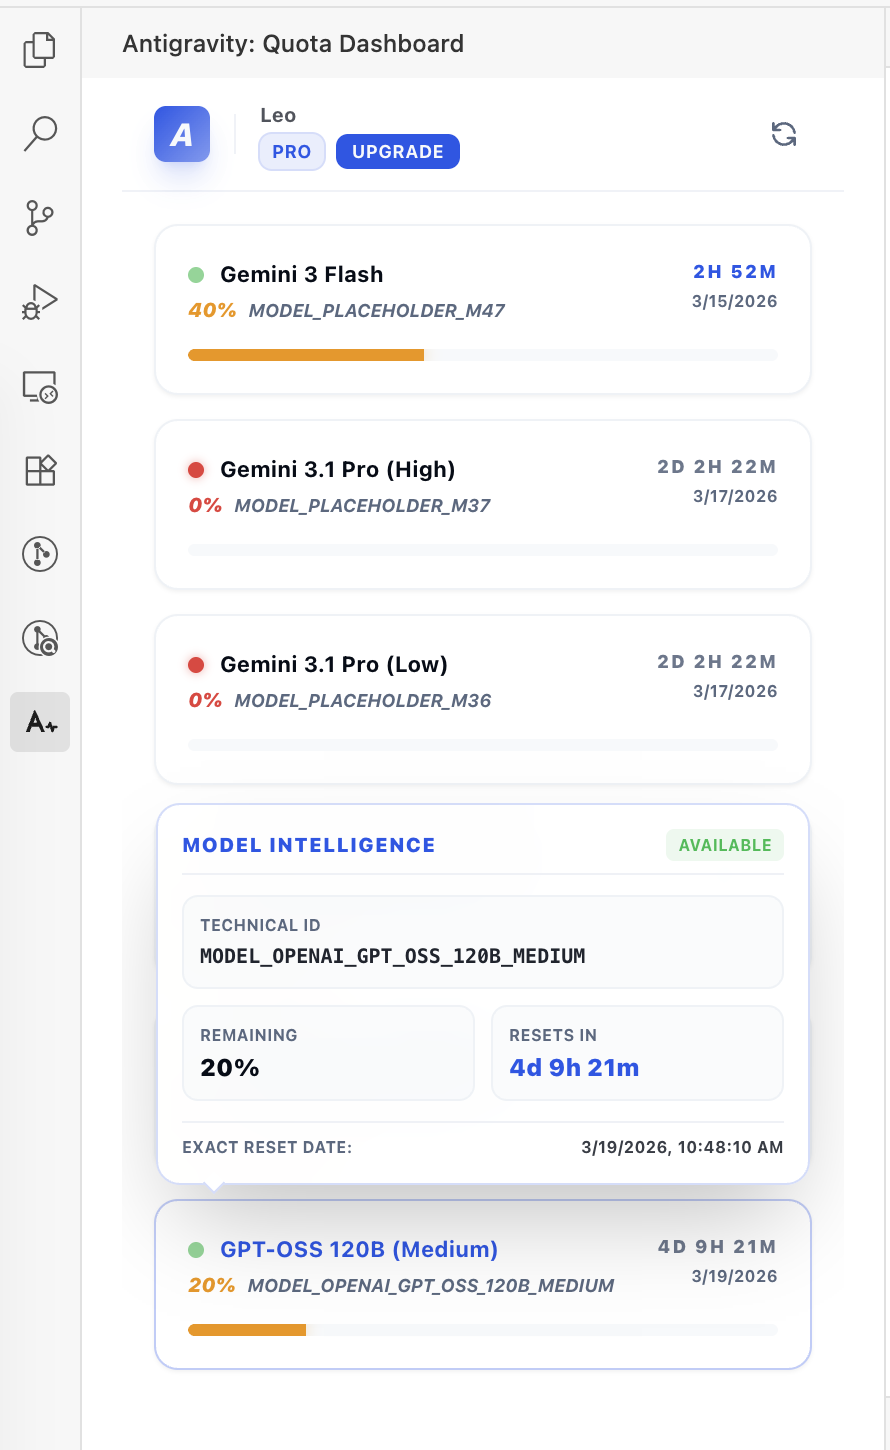
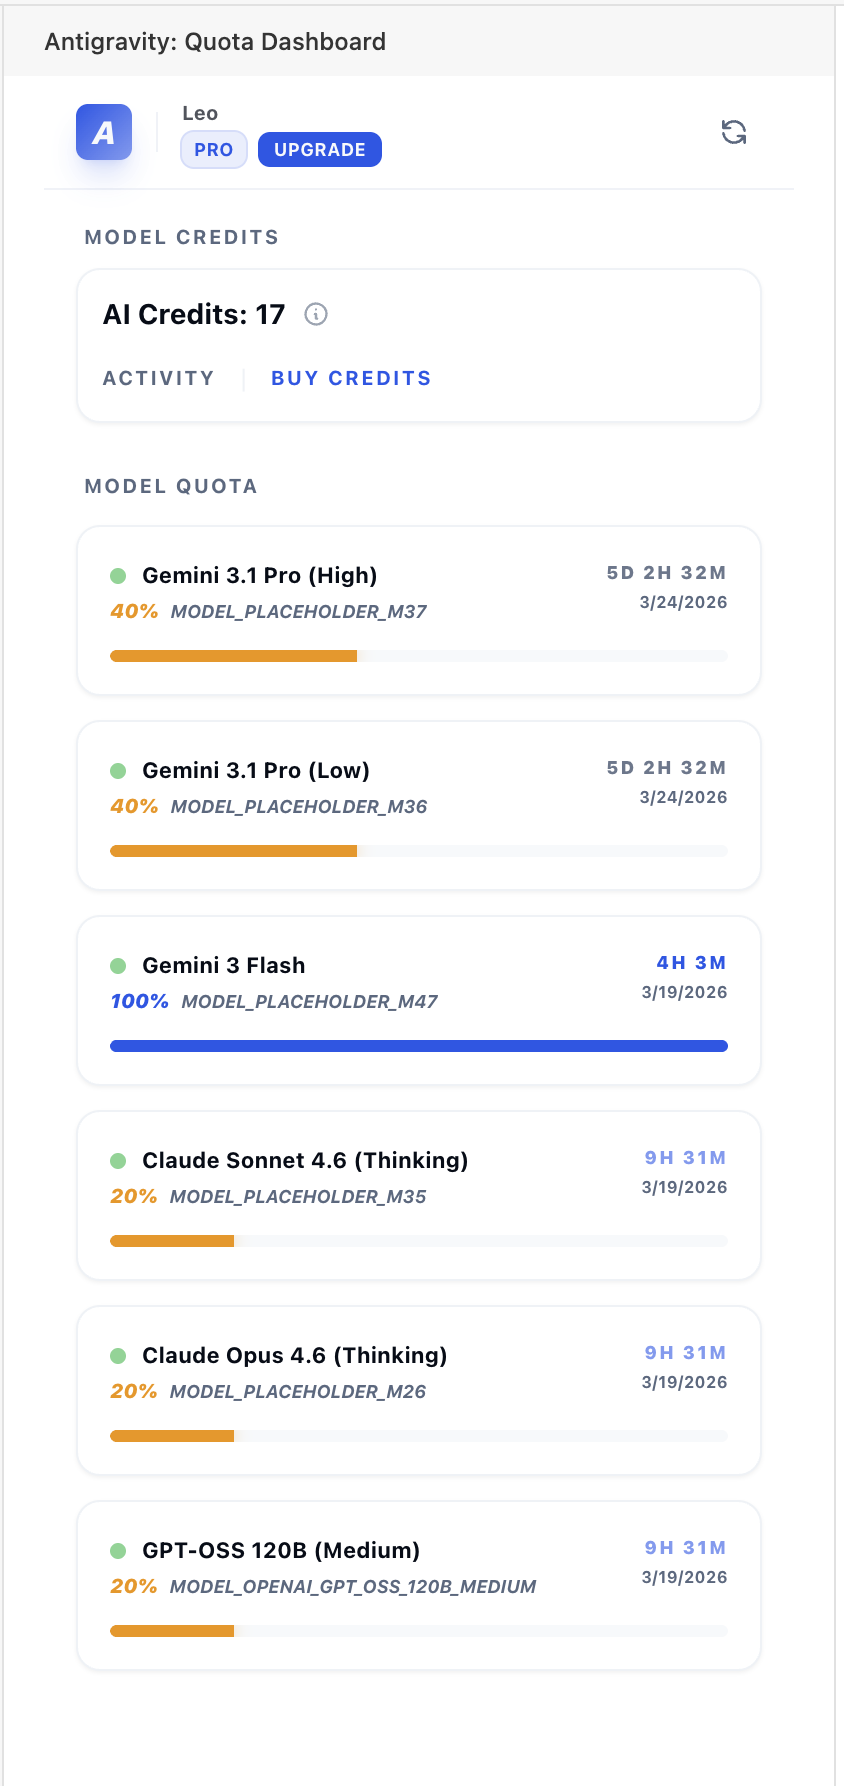
fix: tooptip overflow, models sort, hide ai credits toggle

diff --git a/frontend/src/components/Dashboard.tsx b/frontend/src/components/Dashboard.tsx
@@ -49,21 +49,28 @@ export const Dashboard: React.FC = () => {
           if (message.data) {
             setQuota(message.data);
             if (message.data.models) {
-              const recommendedOrder = message.data.recommendedModelLabels || [];
-              
-              const sortedModels = [...message.data.models].sort((a: any, b: any) => {
-                const nameA = a.displayName || a.modelName;
-                const nameB = b.displayName || b.modelName;
-                
-                const indexA = recommendedOrder.findIndex((label: string) => nameA.includes(label));
-                const indexB = recommendedOrder.findIndex((label: string) => nameB.includes(label));
-                
-                if (indexA !== -1 && indexB !== -1) return indexA - indexB;
-                if (indexA !== -1) return -1;
-                if (indexB !== -1) return 1;
-                
-                return nameA.localeCompare(nameB);
-              });
+              const recommendedOrder =
+                message.data.recommendedModelLabels || [];
+
+              const sortedModels = [...message.data.models].sort(
+                (a: any, b: any) => {
+                  const nameA = a.displayName || a.modelName;
+                  const nameB = b.displayName || b.modelName;
+
+                  const indexA = recommendedOrder.findIndex((label: string) =>
+                    nameA.includes(label),
+                  );
+                  const indexB = recommendedOrder.findIndex((label: string) =>
+                    nameB.includes(label),
+                  );
+
+                  if (indexA !== -1 && indexB !== -1) return indexA - indexB;
+                  if (indexA !== -1) return -1;
+                  if (indexB !== -1) return 1;
+
+                  return nameA.localeCompare(nameB);
+                },
+              );
               setModels(sortedModels);
             }
             // Update planType in currentAccount metadata if it changed
@@ -204,7 +211,7 @@ export const Dashboard: React.FC = () => {
             </h2>
           </div>
 
-          <div className="bg-card border border-border/50 rounded-xl overflow-hidden shadow-sm">
+          <div className="bg-card border border-border/50 rounded-xl shadow-sm">
             <div className="p-3 flex items-center justify-between gap-3">
               <div className="flex items-center space-x-2 min-w-0">
                 <span className="text-sm font-bold text-foreground truncate">
@@ -228,15 +235,16 @@ export const Dashboard: React.FC = () => {
                   </div>
                   {/* Custom Tooltip */}
                   <div className="absolute top-full left-1/2 -translate-x-1/2 mt-2 w-48 p-2 bg-background/95 backdrop-blur-md border border-border rounded-lg shadow-xl text-[10px] leading-relaxed text-foreground opacity-0 group-hover:opacity-100 transition-opacity pointer-events-none z-[100]">
-                    When toggled on, Antigravity will use your AI credits to fulfill model requests 
-                    once you're out of model quota. Antigravity will always use your model quota 
-                    first before using AI credits.
+                    When toggled on, Antigravity will use your AI credits to
+                    fulfill model requests once you're out of model quota.
+                    Antigravity will always use your model quota first before
+                    using AI credits.
                     <div className="absolute bottom-full left-1/2 -translate-x-1/2 border-8 border-transparent border-b-border/95" />
                   </div>
                 </div>
               </div>
 
-              <div className="flex items-center space-x-2 shrink-0">
+              {/* <div className="flex items-center space-x-2 shrink-0">
                 <button
                   onClick={() => {
                     const newValue = !quota?.enableAiCreditOverages;
@@ -258,7 +266,7 @@ export const Dashboard: React.FC = () => {
                     }`}
                   />
                 </button>
-              </div>
+              </div> */}
             </div>
 
             <div className="px-3 pb-3 flex items-center space-x-3">

diff --git a/backend/localLanguageServerClient.ts b/backend/localLanguageServerClient.ts
@@ -342,10 +342,10 @@ export async function fetchCredentialsFromLanguageServer(): Promise<Credentials 
     }
     const userStatus = (response as any).userStatus;
 
-    console.log(
-      "[LocalLS] GetUserStatus response:",
-      JSON.stringify(userStatus, null, 2),
-    );
+    // console.log(
+    //   "[LocalLS] GetUserStatus response:",
+    //   JSON.stringify(userStatus, null, 2),
+    // );
 
     // Extract email from GetUserStatus response
     // The response structure may vary, so we check common field names
@@ -522,8 +522,10 @@ export async function fetchQuotaFromLanguageServer(
         const credit = userTier?.availableCredits?.find(
           (c: any) => c.creditType === "GOOGLE_ONE_AI",
         );
-        if (credit?.creditAmount !== undefined) return Number(credit.creditAmount);
-        if (planStatus?.availableAiCredits !== undefined) return Number(planStatus.availableAiCredits);
+        if (credit?.creditAmount !== undefined)
+          return Number(credit.creditAmount);
+        if (planStatus?.availableAiCredits !== undefined)
+          return Number(planStatus.availableAiCredits);
         return undefined;
       })(),
       enableAiCreditOverages: planStatus?.enableAiCreditOverages,

diff --git a/CHANGELOG.md b/CHANGELOG.md
@@ -1,0 +1,22 @@
+# Changelog
+
+All notable changes to this project will be documented in this file.
+
+The format is based on [Keep a Changelog](https://keepachangelog.com/en/1.1.0/),
+and this project adheres to [Semantic Versioning](https://semver.org/spec/v2.0.0.html).
+
+## [0.0.7] - 2026-03-19
+
+### Fixed
+
+- Tooltip overflow issues.
+- Model sorting logic.
+- Hidden AI credits toggle.
+
+### Changed
+
+- Increased version to 0.0.7.
+
+### Added
+
+- Dark theme support.
